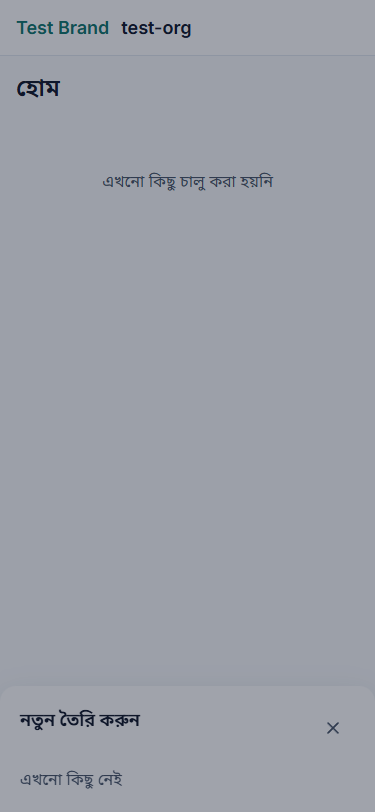
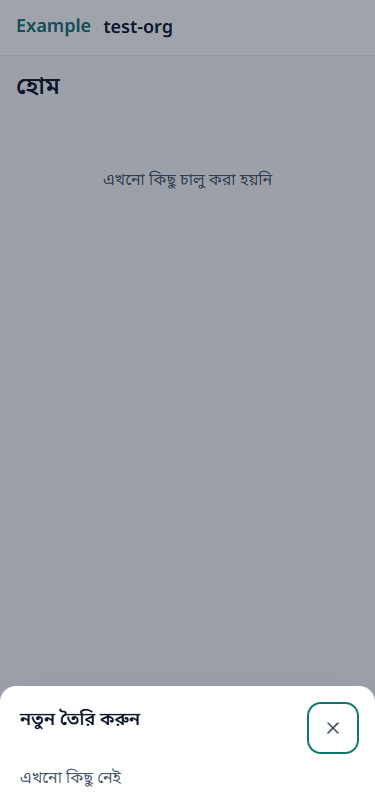
fix(ui): put the sheet overlay and content on one layer (review j3)
Below md the sheet content sat at z-sheet under its own z-dialog overlay, so
every tap hit the overlay and closed the sheet. Both now use z-sheet. A
puppeteer-core browser test (npm run test:browser) proves the sheet is on top
at 375 px; the 0.5b screenshot is retaken.

diff --git a/apps/admin/src/shell/sheet-stacking.browser.test.ts b/apps/admin/src/shell/sheet-stacking.browser.test.ts
@@ -1,0 +1,132 @@
+import { createRequire } from "node:module";
+import { spawn, type ChildProcess } from "node:child_process";
+import { BUNDLED_CATALOGS } from "@banijjik/i18n";
+import puppeteer, { type Browser, type Page } from "puppeteer-core";
+import { afterAll, beforeAll, describe, expect, it } from "vitest";
+
+declare global {
+  interface ImportMetaEnv {
+    /** Path of the Chrome executable; vitest exposes the process environment here. */
+    readonly CHROME_PATH?: string;
+  }
+}
+
+const requireFromHere = createRequire(import.meta.url);
+const PORT = 3101;
+const PAGE_URL = `http://localhost:${PORT}/test-org`;
+const PHONE_VIEWPORT = { width: 375, height: 812, isMobile: true, hasTouch: true } as const;
+const SERVER_READY_TIMEOUT_MS = 30_000;
+const POLL_INTERVAL_MS = 250;
+const labels = BUNDLED_CATALOGS.bn;
+
+let server: ChildProcess;
+let browser: Browser;
+
+async function waitForServer(): Promise<void> {
+  const deadline = Date.now() + SERVER_READY_TIMEOUT_MS;
+  while (Date.now() < deadline) {
+    try {
+      const response = await fetch(PAGE_URL);
+      if (response.ok) return;
+    } catch {
+      // The server is still starting; the deadline ends the wait.
+    }
+    await new Promise((resolve) => setTimeout(resolve, POLL_INTERVAL_MS));
+  }
+  throw new Error("next start did not become ready in time");
+}
+
+function chromePath(): string {
+  const path = import.meta.env.CHROME_PATH;
+  if (!path) throw new Error("Set CHROME_PATH to a Chrome executable (no browser is downloaded)");
+  return path;
+}
+
+async function openSheet(page: Page, triggerLabel: string): Promise<void> {
+  await page.goto(PAGE_URL, { waitUntil: "networkidle0" });
+  // React puts a __reactProps key on an element once it is hydrated; a click before that does nothing.
+  await page.waitForFunction(() =>
+    Array.from(document.querySelectorAll("nav button")).every((button) =>
+      Object.keys(button).some((key) => key.startsWith("__reactProps")),
+    ),
+  );
+  await page.evaluate((text) => {
+    const buttons = Array.from(document.querySelectorAll("nav button"));
+    buttons
+      .find(
+        (button) =>
+          button.textContent?.includes(text) || button.getAttribute("aria-label") === text,
+      )
+      ?.dispatchEvent(new MouseEvent("click", { bubbles: true }));
+  }, triggerLabel);
+  await page.waitForSelector("[role=dialog]");
+  await page.waitForFunction(
+    () => (document.querySelector("[role=dialog]")?.getAnimations().length ?? 1) === 0,
+  );
+}
+
+/** Whether the element on top at the given point of the open dialog is part of the dialog. */
+async function isDialogOnTop(page: Page, closeLabel: string): Promise<boolean[]> {
+  return page.evaluate((closeText) => {
+    const dialog = document.querySelector("[role=dialog]");
+    const closeButton = dialog?.querySelector(`[aria-label="${closeText}"]`);
+    if (!dialog || !closeButton) return [false, false];
+    const topAt = (element: Element): Element | null => {
+      const box = element.getBoundingClientRect();
+      return document.elementFromPoint(box.x + box.width / 2, box.y + box.height / 2);
+    };
+    const centreTop = topAt(dialog);
+    const closeTop = topAt(closeButton);
+    return [dialog.contains(centreTop), dialog.contains(closeTop)];
+  }, closeLabel);
+}
+
+beforeAll(async () => {
+  server = spawn(
+    process.execPath,
+    [requireFromHere.resolve("next/dist/bin/next"), "start", "-p", String(PORT)],
+    {
+      cwd: process.cwd(),
+      stdio: ["ignore", "ignore", "inherit"],
+    },
+  );
+  await waitForServer();
+  browser = await puppeteer.launch({ executablePath: chromePath(), headless: true });
+});
+
+afterAll(async () => {
+  await browser?.close();
+  server?.kill();
+});
+
+describe("sheet stacking at 375 px (review J3)", () => {
+  it.each([
+    ["Quick create", labels["nav.quickCreate"]],
+    ["More", labels["nav.more"]],
+  ])("%s sheet is on top at its centre and at its close button", async (_name, triggerLabel) => {
+    const page = await browser.newPage();
+    await page.setViewport(PHONE_VIEWPORT);
+    await openSheet(page, triggerLabel ?? "");
+    const [centreIsDialog, closeIsDialog] = await isDialogOnTop(
+      page,
+      labels["shell.closeMenu"] ?? "",
+    );
+    await page.close();
+    expect({ centreIsDialog, closeIsDialog }).toEqual({
+      centreIsDialog: true,
+      closeIsDialog: true,
+    });
+  });
+
+  it("gives the two navigation landmarks different labels", async () => {
+    const page = await browser.newPage();
+    await page.setViewport(PHONE_VIEWPORT);
+    await page.goto(PAGE_URL, { waitUntil: "networkidle0" });
+    const names = await page.$$eval("nav[aria-label]", (navs) =>
+      navs.map((nav) => nav.getAttribute("aria-label")),
+    );
+    await page.close();
+    expect(new Set(names).size).toBe(names.length);
+    expect(names).toContain(labels["nav.bottom"]);
+  });
+});

diff --git a/packages/ui/src/components/sheet.tsx b/packages/ui/src/components/sheet.tsx
@@ -13,7 +13,10 @@ import {
 
 export const Sheet = Dialog;
 
-/** A bottom sheet below the md breakpoint and a centred dialog from it up; the switch is CSS only. */
+/**
+ * A bottom sheet below the md breakpoint and a centred dialog from it up; the switch is CSS only. Overlay and
+ * content both sit on the sheet layer: a content layer below its own overlay swallows every tap (review J3).
+ */
 export function SheetContent({
   title,
   description,
@@ -23,13 +26,13 @@ export function SheetContent({
 }: DialogFrameProps): ReactElement {
   return (
     <DialogPrimitive.Portal>
-      <DialogOverlay />
+      <DialogOverlay className="z-sheet" />
       <DialogPrimitive.Content
         {...descriptionProps(description)}
         className={cn(
           "fixed inset-x-0 bottom-0 z-sheet flex max-h-[85dvh] flex-col gap-4 overflow-y-auto rounded-t-lg bg-surface p-5 shadow-lg",
           "data-[state=open]:animate-[ui-slide-up_var(--token-motion-medium)_ease-out] data-[state=closed]:animate-[ui-slide-down_var(--token-motion-medium)_ease-out]",
-          "md:inset-x-auto md:bottom-auto md:left-1/2 md:top-1/2 md:z-dialog md:w-full md:max-w-md md:-translate-x-1/2 md:-translate-y-1/2 md:rounded-lg",
+          "md:inset-x-auto md:bottom-auto md:left-1/2 md:top-1/2 md:w-full md:max-w-md md:-translate-x-1/2 md:-translate-y-1/2 md:rounded-lg",
           className,
         )}
       >

diff --git a/packages/ui/src/components/sheet.test.tsx b/packages/ui/src/components/sheet.test.tsx
@@ -1,0 +1,20 @@
+import { render, screen } from "@testing-library/react";
+import { describe, expect, it } from "vitest";
+import { Sheet, SheetContent } from "./sheet.js";
+
+describe("SheetContent", () => {
+  it("puts the overlay and the content on the same layer (review J3)", () => {
+    render(
+      <Sheet open>
+        <SheetContent title="Menu" closeLabel="Close">
+          body
+        </SheetContent>
+      </Sheet>,
+    );
+    const content = screen.getByRole("dialog");
+    const overlay = document.querySelector("[data-state='open'].fixed.inset-0");
+    expect(overlay?.className).toContain("z-sheet");
+    expect(content.className).toContain("z-sheet");
+    expect(content.className).not.toContain("z-dialog");
+  });
+});

diff --git a/packages/ui/src/components/dialog.tsx b/packages/ui/src/components/dialog.tsx
@@ -12,10 +12,11 @@ export const DialogClose = DialogPrimitive.Close;
 const FADE_ANIMATION =
   "data-[state=open]:animate-[ui-fade-in_var(--token-motion-medium)_ease-out] data-[state=closed]:animate-[ui-fade-out_var(--token-motion-medium)_ease-out]";
 
-export function DialogOverlay(): ReactElement {
+/** The overlay and the content of one surface must share a layer, so the content (later in the DOM) paints above it. */
+export function DialogOverlay({ className = "z-dialog" }: { className?: string }): ReactElement {
   return (
     <DialogPrimitive.Overlay
-      className={cn("fixed inset-0 z-dialog bg-primary/40", FADE_ANIMATION)}
+      className={cn("fixed inset-0 bg-primary/40", className, FADE_ANIMATION)}
     />
   );
 }

diff --git a/apps/admin/vitest.browser.config.ts b/apps/admin/vitest.browser.config.ts
@@ -1,0 +1,15 @@
+import { defineConfig } from "vitest/config";
+
+/** Real-browser checks (needs a built app and Chrome); not part of `npm test`. See the README. */
+export default defineConfig({
+  test: {
+    environment: "node",
+    include: ["src/**/*.browser.test.ts"],
+    testTimeout: 60_000,
+    hookTimeout: 60_000,
+    env: {
+      NEXT_PUBLIC_API_BASE_URL: "http://localhost:4000",
+      NEXT_PUBLIC_BRAND_NAME: "Test Brand",
+    },
+  },
+});

diff --git a/apps/admin/vitest.config.ts b/apps/admin/vitest.config.ts
@@ -1,7 +1,8 @@
-import { defineConfig } from "vitest/config";
+import { configDefaults, defineConfig } from "vitest/config";
 
 export default defineConfig({
   test: {
+    exclude: [...configDefaults.exclude, "**/*.browser.test.ts"],
     environment: "node",
     env: {
       NEXT_PUBLIC_API_BASE_URL: "http://localhost:4000",

diff --git a/apps/admin/README.md b/apps/admin/README.md
@@ -16,7 +16,7 @@ npm run dev -w @banijjik/admin                      # http://localhost:3000/<org
 - `app/layout.tsx`: root layout, fonts (Inter + Noto Sans Bengali through `next/font`, self-hosted at build time), providers.
 - `app/[orgSlug]/(app)/layout.tsx`: server component that renders the shell (`AppShell`, `TopBar`, `Sidebar`, bottom navigation). It is the layout, so navigating inside an org never remounts it. Never turn off server rendering for it (ADR-010).
 - `src/config/env.ts`: the only reader of `process.env`; validates `NEXT_PUBLIC_API_BASE_URL` and `NEXT_PUBLIC_BRAND_NAME` with Zod.
-- `src/lib/api`: `apiFetch` (cookies, `Idempotency-Key`, envelope parsing) and `ApiError`.
+- `src/lib/api`: `apiFetch` (cookies, `Idempotency-Key`, envelope parsing; a 2xx without `data` is an `errors.invalid_response` error, 204 resolves to `{ data: undefined }`) and `ApiError` (`code` is a contracts `ErrorCode`; an unknown wire code becomes `INTERNAL`).
 - `src/lib/i18n`: `getLocale`/`getTranslator` for server components (cookie `locale`, Bangla default), `I18nProvider`/`useTranslator` for client components.
 - `src/shell`: `buildBottomNavSlots` (pure), `ShellNavigation` (bottom nav and its two sheets), `ShellLink` (Next `Link` adapted to the ui link contract).
 
@@ -29,3 +29,7 @@ npm run dev -w @banijjik/admin                      # http://localhost:3000/<org
 ## Lighthouse
 
 `npm run lighthouse -w @banijjik/admin` builds nothing: run `npm run build -w @banijjik/admin` first (with the two env variables set). It starts `next start` on port 3100 and audits `/test-org` three times with Lighthouse's default mobile emulation, asserting performance and accessibility at 0.9 or more. It needs Chrome (set `CHROME_PATH` if it is not found). Not in CI yet.
+
+## Browser test (sheet stacking)
+
+`npm run test:browser -w @banijjik/admin` opens `/test-org` at 375 px in headless Chrome (puppeteer-core, no browser download), opens the Quick create and More sheets and checks with `document.elementFromPoint` that the sheet, not its overlay, is on top at its centre and at its close button (review J3). Build first with the two env variables set, and set `CHROME_PATH` to a Chrome executable. It starts `next start` on port 3101. It is not part of `npm test`.
